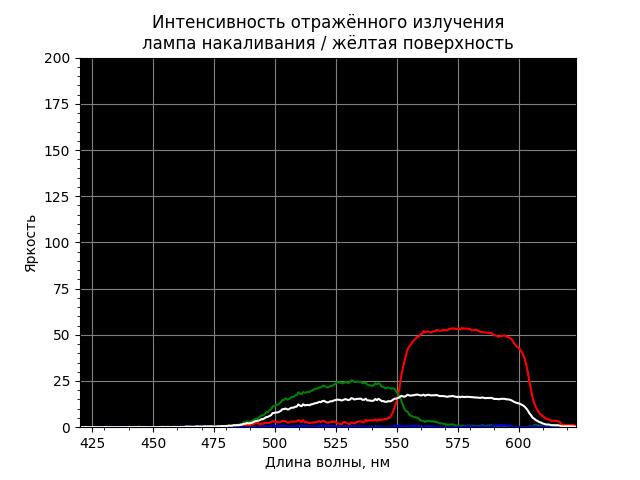
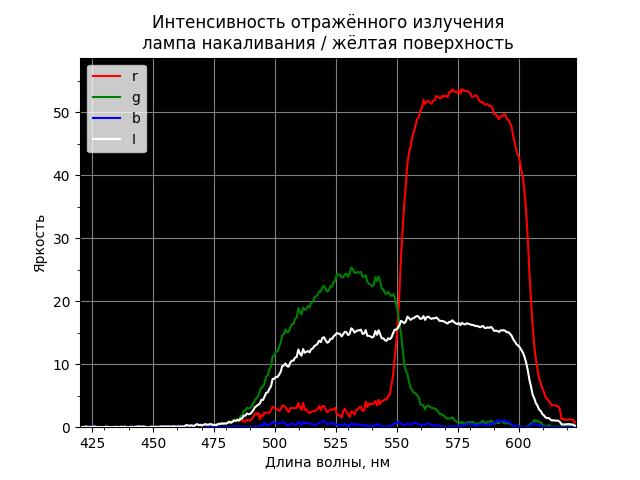
new version

diff --git a/LAB3_light_albedo/Processing.py b/LAB3_light_albedo/Processing.py
@@ -48,10 +48,10 @@ def read_intensity_by_pixel(photo_name, plot_name, lamp, surface):
 
     plt.plot(rgb, label=['r', 'g', 'b'])
     plt.plot(luma, 'w', label='I')
-    plt.ylim(ymin=0, ymax=max(luma+rgb[:,0]++rgb[:,1]+rgb[:,2]))
     plt.legend()
 
-    plt.imshow(background, origin='lower', aspect='auto')
+    plt.imshow(background, origin='lower')
+
     plt.savefig(plot_name)
 
 
@@ -77,9 +77,10 @@ def read_intensity_by_length(photo_name, lamp, surface):
     ax.xaxis.set_minor_locator(MultipleLocator(10))
     ax.yaxis.set_minor_locator(MultipleLocator(5))
     plt.grid(color="grey")
-    plt.ylim(ymin=0, ymax=200)
+    plt.ylim(ymin=0, ymax=max(luma.max(), rgb[::].max()) + 5)
     plt.plot(x, rgb, label=['r', 'g', 'b'])
     plt.plot(x, luma, 'w', label='I')
+    plt.legend()
 
 
 def read_intensity_by_length_multiple(photo_names, lamps, surfaces):
@@ -100,12 +101,16 @@ def read_intensity_by_length_multiple(photo_names, lamps, surfaces):
     x = np.linspace(first_pixel, first_pixel + (X_RIGHT - X_LEFT) * k, X_RIGHT - X_LEFT)
 
     plt.xlim(xmin=x.min(), xmax=x.max())
-    plt.ylim(ymin=0, ymax=25)
+    y_max = 0
     for photo_name, lamp, surface in zip(photo_names, lamps, surfaces):
         if lamp == "ртутная лампа":
             continue
         rgb, luma = get_intensity_map(photo_name)
+        y_max = max(y_max, luma.max())
         plt.plot(x, luma, label=surface, color=COLORS[surface])
+
+    plt.ylim(ymin=0, ymax=y_max + 5)
+
     plt.legend()
 
 
